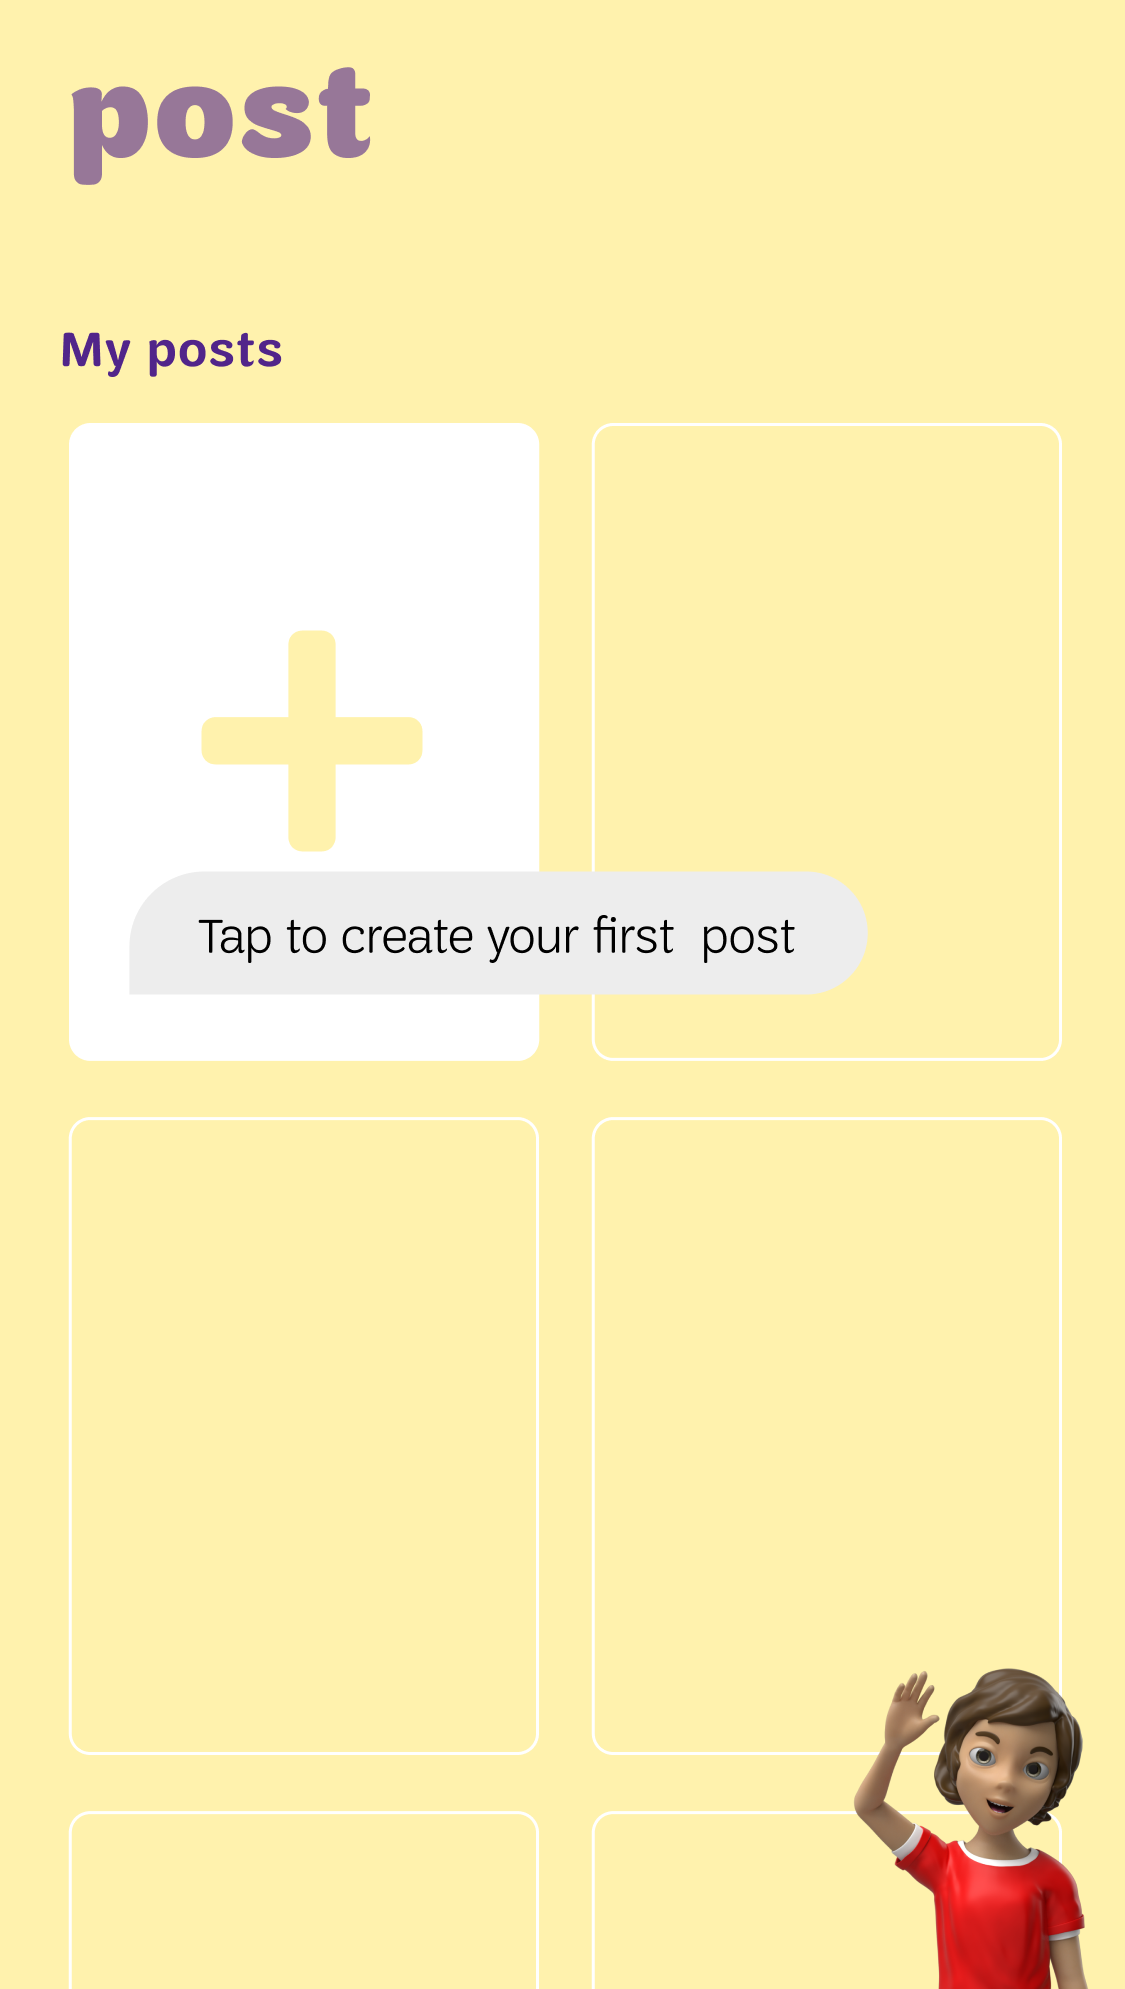
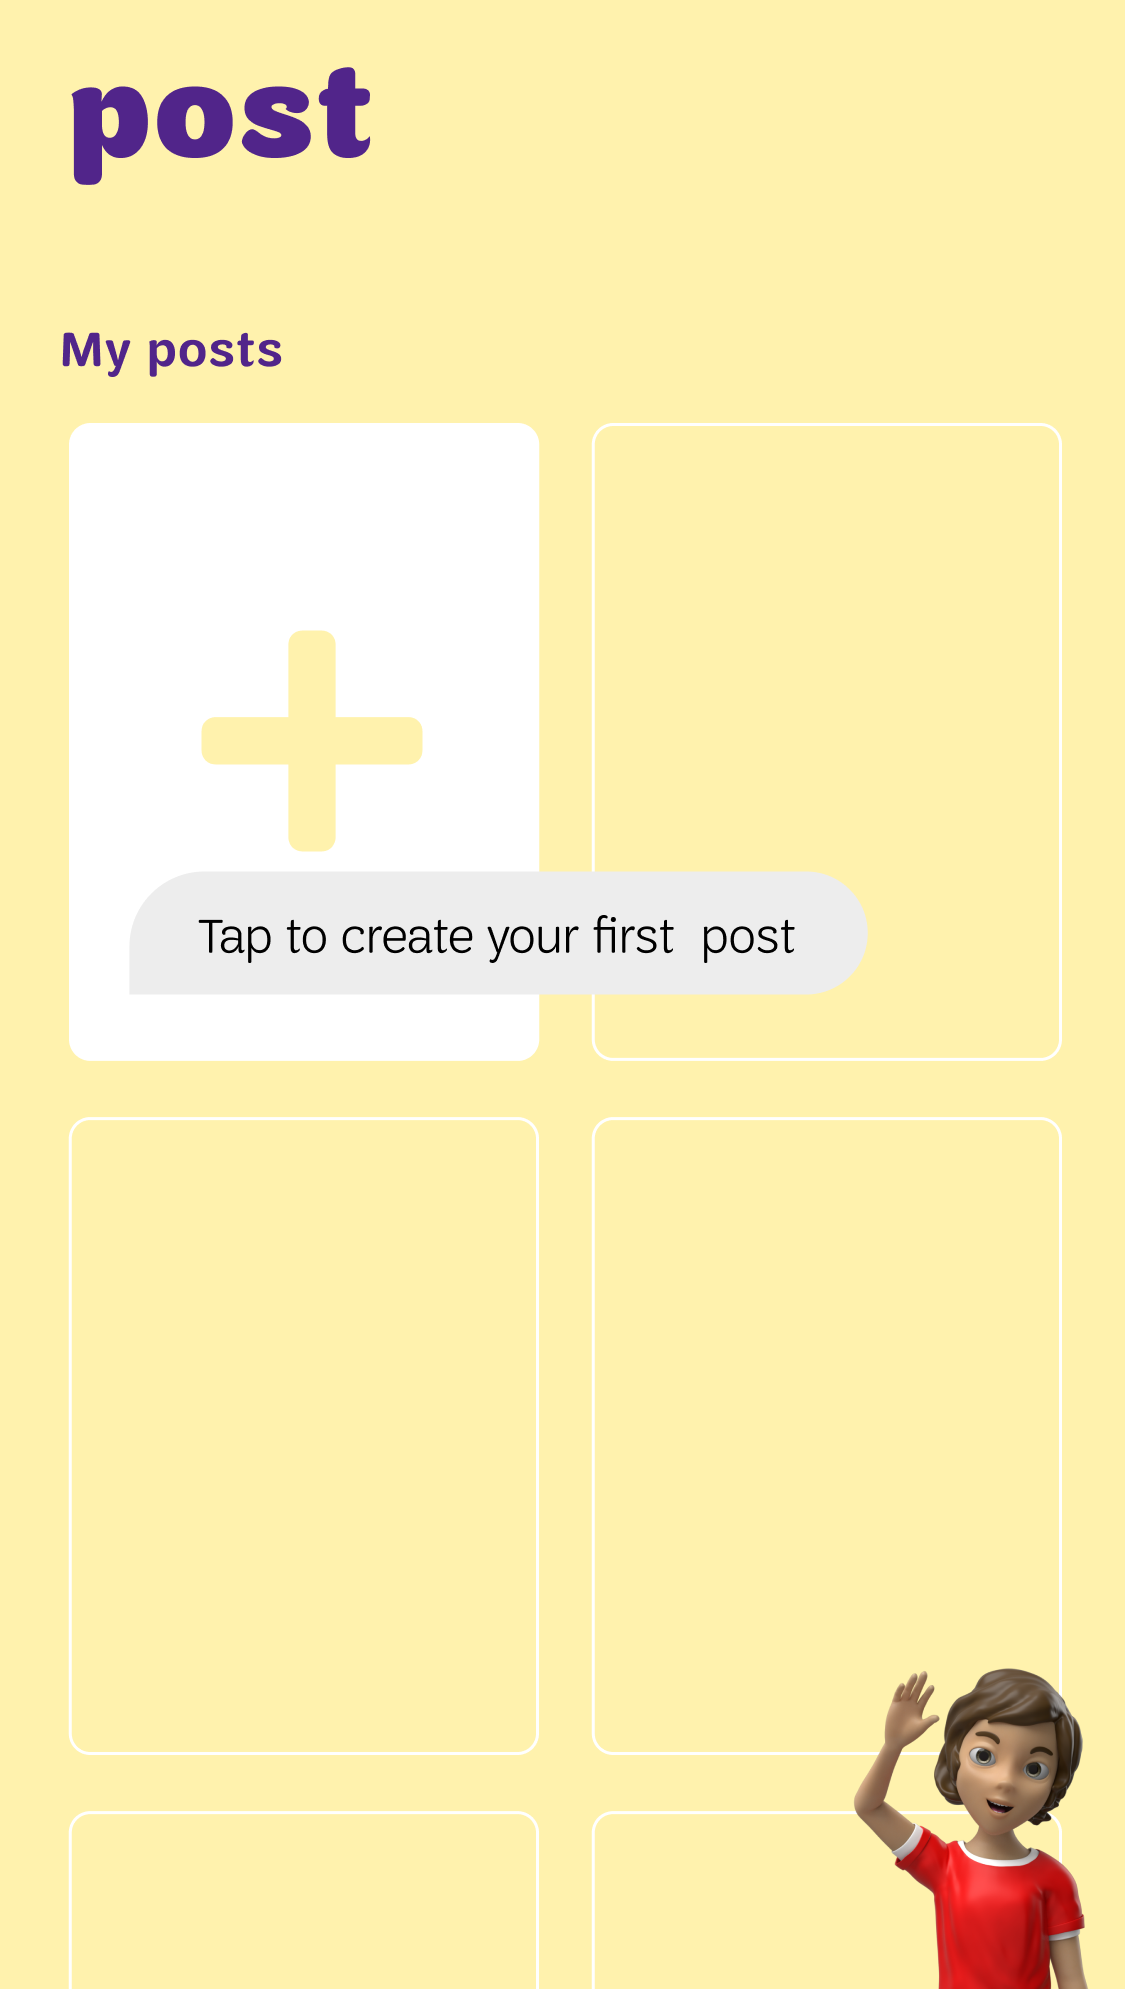
added top menu

Changed region(s): [[0.0622, 0.0312, 0.3422, 0.0935]]

diff --git a/src/screens/SystemScreen.js b/src/screens/SystemScreen.js
@@ -2,10 +2,10 @@ import React from 'react';
 import Dimensions from 'Dimensions';
 import { Text, StyleSheet, View,PanResponder,Vibration, TouchableOpacity,Image, TouchableHighlight,ScrollView,Toggle, Alert, Animated} from 'react-native';
 import Deck from '../Deck';
-import {StackNavigator,TabNavigator, TabBarBottom} from 'react-navigation';
+import { StackNavigator,TabNavigator, TabBarBottom} from 'react-navigation';
 import { LinearGradient } from "expo";
 import {Card, Button,Icon} from 'react-native-elements';
-const {width, height} = Dimensions.get('window');
+const  {width, height} = Dimensions.get('window');
 import Swiper from 'react-native-swiper';
 import ShopScreen from './ShopScreen';
 import s from '../styles/systemscreen';
@@ -19,14 +19,11 @@ import AvaBottomMenu from '../components/AvaBottomMenu.js';
 import TopMenu from '../components/TopMenu';
 import assetPaths from '../assetPaths';
 
-
-
 const SCREEN_WIDTH = Dimensions.get('window').width;
 const SWIPE_THRESHOLD = .05*SCREEN_WIDTH;
 const SWIPE_OUT_DURATION = 300;
 
 class SystemScreen extends React.Component {
-
   constructor(props) {
     super(props);
     console.log('this is system screen' ,this.props.navigation)
@@ -66,7 +63,6 @@ class SystemScreen extends React.Component {
   switch = () => {
     console.log( " I am in the switch",this.state.settings)
 
-
     this.setState({
       settings: !this.state.settings,
       }
@@ -74,53 +70,37 @@ class SystemScreen extends React.Component {
   }
   users = () => {
     console.log( " I am in the users",this.state.users)
-
-
     this.setState({
       users: !this.state.users,
-      }
-      )
+      })
   }
-
   render() {
-
     let { fadeAnim } = this.state;
 
     return (
-
       <LinearGradient
        colors={[color, color]}
        style={[{ height: height, width:width}]}>
-
        <TouchableOpacity
-         style={[s.exit, {zIndex: 100}]} onPress={() => this.props.navigation.goBack()} >
-         <Image style ={{width:35,height:35}} source={assetPaths.shop.icons.close}/>
-        </TouchableOpacity>
-
+          style={[s.exit, {zIndex: 100}]} onPress={() => this.props.navigation.goBack()} >
+          <Image style ={{width:35,height:35}} source={assetPaths.shop.icons.close}/>
+       </TouchableOpacity>
        <TopMenu menuTitle="profile" />
-
-
        <View style={[s.profileContainer,{left: this.state.users ? 600:50}]}>
            <TouchableOpacity  >
            <Image style={s.percentage}
              source={require('../../assets/icons/Profile/Percentage.png')} />
            </TouchableOpacity>
-
            <TouchableOpacity onPress={this.switch} >
            <Image style={s.avaProfile}
              source={require('../../assets/icons/Profile/Ava.png')} />
            </TouchableOpacity>
-
            <TouchableOpacity onPress={this.users}>
            <Image style={s.addUser}
              source={require('../../assets/icons/Profile/AddUser.png')} />
            </TouchableOpacity>
-
        </View>
-
-
-        <View style={[s.profileContainerUsers,{left: this.state.users ? 10:600}]}>
-
+       <View style={[s.profileContainerUsers,{left: this.state.users ? 10:600}]}>
            <TouchableOpacity onPress={this.users} >
            <Image style={s.avaProfile}
              source={require('../../assets/icons/Profile/Profile_Ava.png')} />
@@ -134,29 +114,19 @@ class SystemScreen extends React.Component {
              source={require('../../assets/icons/Profile/Profile_Maud.png')} />
            </TouchableOpacity>
        </View>
-
-
-
-
-      <Text style={s.userName}>@Ava_G</Text>
-
-
-
-     <View style={{position:'absolute',left: this.state.settings ? 600:100,top:300}}>
-            <DraggableBox/>
-            <DraggableBox1/>
-            <DraggableBox2/>
-     </View>
-
-<View style={{
-  posiiton:'absolute',
-  flex:1,
-  top:-50,
-  left: this.state.settings ? 0:600,
-  zIndex:0
-}}>
-
-
+       <Text style={s.userName}>@Ava_G</Text>
+       <View style={{position:'absolute',left: this.state.settings ? 600:100,top:300}}>
+              <DraggableBox/>
+              <DraggableBox1/>
+              <DraggableBox2/>
+       </View>
+      <View style={{
+        posiiton:'absolute',
+        flex:1,
+        top:-50,
+        left: this.state.settings ? 0:600,
+        zIndex:0
+      }}>
       <View style={styles.row}>
        <TouchableOpacity>
           <Image source={assetPaths.systemScreen.icons.account} style={styles.image}/>
@@ -171,7 +141,6 @@ class SystemScreen extends React.Component {
           <Text style={s.iconText}>Notification</Text>
        </TouchableOpacity>
       </View>
-
       <View style={styles.row}>
        <TouchableOpacity>
           <Image source={assetPaths.systemScreen.icons.avatar} style={styles.image}/>
@@ -186,7 +155,6 @@ class SystemScreen extends React.Component {
           <Text style={s.iconText}>Permissions</Text>
        </TouchableOpacity>
       </View>
-
       <View style={styles.row}>
        <TouchableOpacity>
           <Image source={assetPaths.systemScreen.icons.orders} style={styles.image}/>

diff --git a/src/screens/HomeScreen.js b/src/screens/HomeScreen.js
@@ -1,7 +1,7 @@
 import React from 'react';
 import Dimensions from 'Dimensions';
 import { View, Modal, TouchableOpacity, Image, Animated} from 'react-native';
-import { Video } from "expo";
+import { Video, Constants, Audio } from "expo";
 import {swipeDirections} from 'react-native-swipe-gestures';
 import s from '../styles/homescreen';
 import AvaBottomMenuHomescreen from '../components/AvaBottomMenuHomescreen';
@@ -45,7 +45,23 @@ class HomeScreen extends React.Component {
 
   renderNotification() {
     return(<View style={[s.notificationContainer]}>
-        <TouchableOpacity>
+        <TouchableOpacity
+
+        onPress={ async () => {
+          const source = {
+            uri: "http://www.slspencer.com/Sounds/Chewbacca/Chewie3.mp3"
+          };
+
+          try {
+            await Audio.setIsEnabledAsync(true);
+            const sound = new Audio.Sound();
+            await sound.loadAsync(source);
+            await sound.playAsync();
+            console.log('the sound button is pressed')
+          } catch(error) {
+            console.error(error);
+          }
+        }}>
           <Image style={s.notificationIcon} source={assetPaths.homeScreen.icons.notificationIcon} />
         </TouchableOpacity>
       </View>);

diff --git a/src/assetPaths.js b/src/assetPaths.js
@@ -222,6 +222,7 @@ paths.awardScreen = {
         summit: require('../assets/award/award-journey.png'),
     }
 },
+
 paths.systemScreen = {
     icons: {
         account: require('../assets/icons/System/1_Account.png'),
@@ -238,6 +239,7 @@ paths.systemScreen = {
         help: require('../assets/icons/System/12_Help.png'),
     }
 },
+
 paths.navMenu = {
     dotOn: require('../assets/navMenu/navDot_on.png'),
     dotOff: require('../assets/navMenu/navDot_off.png')
@@ -246,7 +248,7 @@ paths.shop = {
     icons: {
         wishlist: require('../assets/shop/shop-heart.png'),
         close: require('../assets/shop/shop-close-button.png'),
-        search: require('../assets/shop/shopSearch.png'),
+        search: require('../assets/shop/icon-search.png'),
         see: require('../assets/shop/see.png'),
         dot: require('../assets/shop/dot.png')
     },

diff --git a/src/components/AvaBottomMenu.js b/src/components/AvaBottomMenu.js
@@ -126,25 +126,11 @@ renderTabContent() {
             </Animated.View> )
   }
 }
-animate = async () => {
-  console.log(this.state.tab)
+animate = () => {
+    console.log(this.state.tab)
     this.setState({
       tab: !this.state.tab,
     })
-
-      const source = {
-        uri: "http://soundimage.org/wp-content/uploads/2016/04/UI_Quirky34.mp3"
-      };
-
-      try {
-        await Audio.setIsEnabledAsync(true);
-        const sound = new Audio.Sound();
-        await sound.loadAsync(source);
-        await sound.playAsync();
-      } catch(error) {
-        console.error(error);
-      }
-
 
     if (this.state.blurRadius == maxBlurRadius) { this.setState({ blurRadius: initialBlurRadius });
     } else { this.setState({ blurRadius: maxBlurRadius }); }

diff --git a/src/styles/topmenu.js b/src/styles/topmenu.js
@@ -16,7 +16,6 @@ var styles = StyleSheet.create({
         fontSize: 40,
         fontFamily: 'trefoil-sans-black',
         margin: 15,
-        opacity: 0.8,
     },
     menuNavButton: {
         margin: 20,

diff --git a/src/styles/communityscreen.js b/src/styles/communityscreen.js
@@ -117,7 +117,6 @@ var styles = StyleSheet.create({
         marginBottom: 10,
         left: 10,
         marginRight: 8,
-
     },
 });
 
